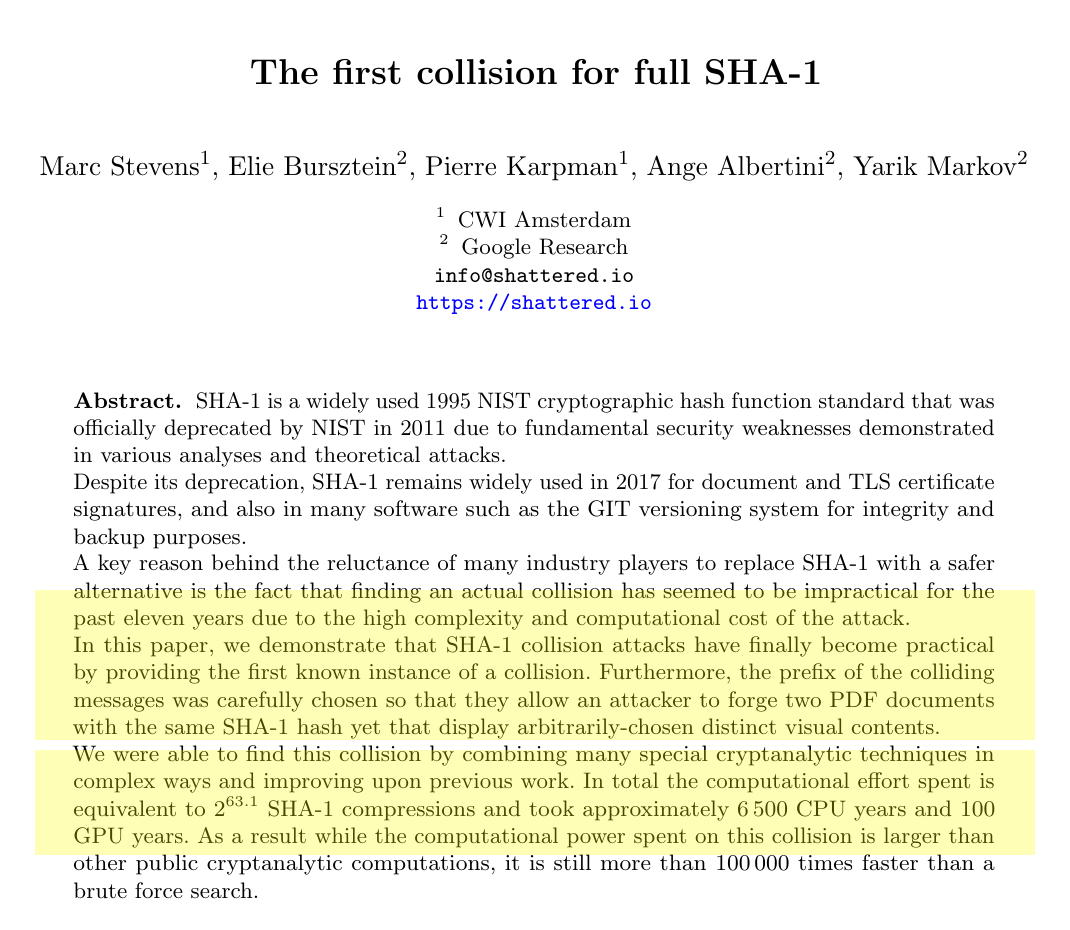
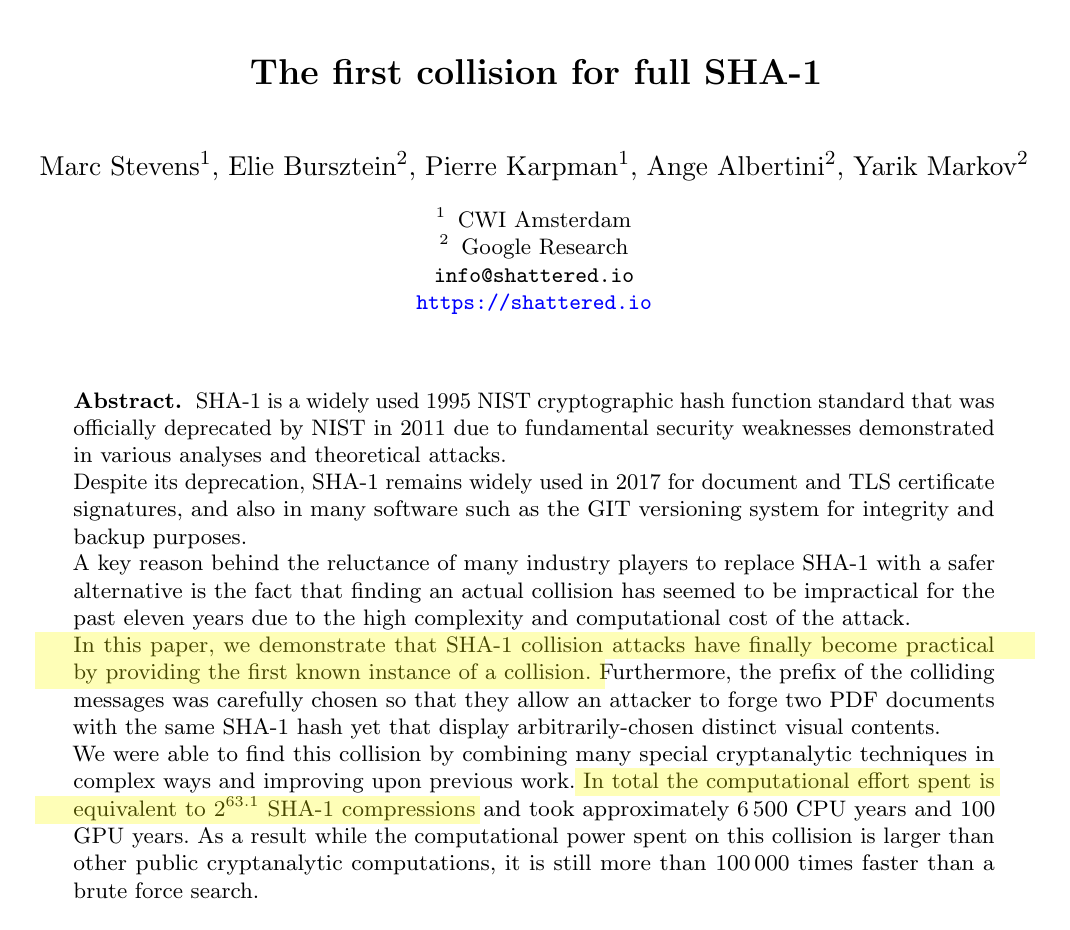
Fix SHA source excerpt highlighting

Changed region(s): [[0.0308, 0.6237, 0.9869, 0.9355]]

diff --git a/tests/test_sha_signature_post.py b/tests/test_sha_signature_post.py
@@ -25,6 +25,10 @@ class ShaSignaturePostTests(unittest.TestCase):
         self.assertIn("SHA-256 is a hash function, not a signature algorithm", self.text)
         self.assertIn("signature primitive", self.text)
 
+    def test_shattered_cost_uses_the_source_unit(self) -> None:
+        self.assertIn(r"$2^{63.1}$ SHA-1 compressions", self.text)
+        self.assertNotIn("SHA-1 evaluations", self.text)
+
     def test_birthday_bound_is_derived(self) -> None:
         self.assertIn(r"q_{1/2}", self.text)
         self.assertIn(r"\sqrt{2\log 2}", self.text)

diff --git a/_posts/2026-07-27-sha1-sha256-certificate-signatures.md b/_posts/2026-07-27-sha1-sha256-certificate-signatures.md
@@ -245,7 +245,7 @@ The inner digest is therefore not exposed as the final state of a message that a
 
 ## What failed in SHA-1
 
-SHA-1’s $160$-bit output would suggest a generic collision cost around $2^{80}$. Its round structure permits substantially better <span id="definition-differential-attack" class="definition-target">**differential attacks**, which engineer and track carefully chosen input differences through the internal rounds instead of treating the hash as a black box</span>. In 2017, Marc Stevens, Elie Bursztein, Pierre Karpman, Ange Albertini and Yarik Markov produced two different PDF files with exactly the same SHA-1 digest. Their SHAttered paper estimates the computation at roughly $2^{63.1}$ SHA-1 evaluations.
+SHA-1’s $160$-bit output would suggest a generic collision cost around $2^{80}$. Its round structure permits substantially better <span id="definition-differential-attack" class="definition-target">**differential attacks**, which engineer and track carefully chosen input differences through the internal rounds instead of treating the hash as a black box</span>. In 2017, Marc Stevens, Elie Bursztein, Pierre Karpman, Ange Albertini and Yarik Markov produced two different PDF files with exactly the same SHA-1 digest. Their SHAttered paper estimates the computation at roughly $2^{63.1}$ SHA-1 compressions.
 
 <figure class="source-facsimile source-facsimile--paper">
   <div class="source-facsimile-viewport">
